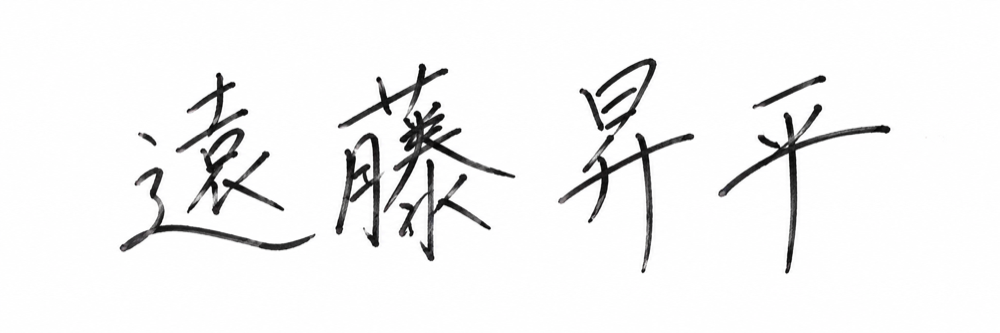
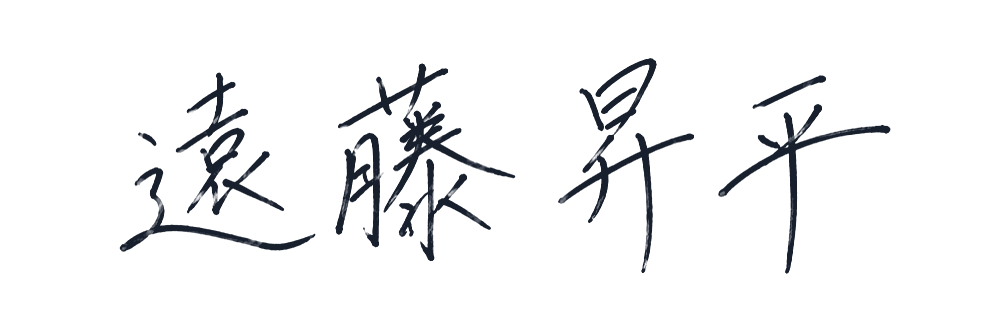
直筆サインを透明PNGにして、カーソルを合わせたときの白い点滅をなくす
Claude-Session: https://claude.ai/code/session_01YM2izPZYCTGNiZN6mE8etP

diff --git a/about/index.html b/about/index.html
@@ -15,7 +15,7 @@
 <link href="https://fonts.googleapis.com/css2?family=Cormorant+Garamond:wght@300;400;500&family=Montserrat:wght@500;600&family=Noto+Sans+JP:wght@400;500;700&family=Noto+Serif+JP:wght@500;600&display=swap" rel="stylesheet">
 <link rel="icon" href="../images/favicon.png" type="image/png">
 <link rel="apple-touch-icon" href="../images/apple-touch-icon.png">
-<link rel="stylesheet" href="../assets/style.css?v=fdc9fe1f">
+<link rel="stylesheet" href="../assets/style.css?v=f1bfc640">
 <script>
   // 表示前に「フェード待ち」の状態にする（本文の最後で付けると、文字が一度見えてから消えてフェードする）。
   // main.js が読み込めなかったときに文字が隠れたままにならないよう、3秒で解除する。
@@ -241,7 +241,7 @@
           <p>今後とも、より一層のご支援とご愛顧を賜りますよう、よろしくお願い申し上げます。</p>
         </div>
         <p class="co-message-company">LFグループ株式会社</p>
-        <p class="co-message-name"><span>代表取締役</span><img class="co-message-sign" loading="lazy" src="../images/ceo-sign.png?v=69592544" alt="遠藤 昇平" onerror="this.replaceWith(document.createTextNode('遠藤 昇平'))"></p>
+        <p class="co-message-name"><span>代表取締役</span><img class="co-message-sign" loading="lazy" src="../images/ceo-sign.png?v=c640e25b" alt="遠藤 昇平" onerror="this.replaceWith(document.createTextNode('遠藤 昇平'))"></p>
       </div>
     </div>
   </section>
@@ -295,7 +295,7 @@
   <a class="t" href="tel:0528462135"><svg><use href="#i-tel"/></svg>電話する</a>
 </div>
 
-<script src="../assets/main.js?v=fdc9fe1f"></script>
+<script src="../assets/main.js?v=f1bfc640"></script>
 <script src="../assets/recruit-fv.js?v=2086842c"></script>
 </body>
 </html>

diff --git a/top-a2-serif/index.html b/top-a2-serif/index.html
@@ -15,7 +15,7 @@
 <link href="https://fonts.googleapis.com/css2?family=Cormorant+Garamond:wght@300;400;500&family=Montserrat:wght@500;600&family=Noto+Sans+JP:wght@400;500;700&family=Noto+Serif+JP:wght@500;600&display=swap" rel="stylesheet">
 <link rel="icon" href="../images/favicon.png" type="image/png">
 <link rel="apple-touch-icon" href="../images/apple-touch-icon.png">
-<link rel="stylesheet" href="../assets/style.css?v=fdc9fe1f">
+<link rel="stylesheet" href="../assets/style.css?v=f1bfc640">
 <script>
   // 表示前に「フェード待ち」の状態にする（本文の最後で付けると、文字が一度見えてから消えてフェードする）。
   // main.js が読み込めなかったときに文字が隠れたままにならないよう、3秒で解除する。
@@ -282,7 +282,7 @@
   <a class="t" href="tel:0528462135"><svg><use href="#i-tel"/></svg>電話する</a>
 </div>
 
-<script src="../assets/main.js?v=fdc9fe1f"></script>
+<script src="../assets/main.js?v=f1bfc640"></script>
 <script src="../assets/lenis.min.js?v=89c0d7eb"></script>
 <script src="../assets/stylish.js?v=89c0d7eb"></script>
 <script src="../assets/recruit-fv.js?v=2086842c"></script>

diff --git a/top-flashy/index.html b/top-flashy/index.html
@@ -15,7 +15,7 @@
 <link href="https://fonts.googleapis.com/css2?family=Cormorant+Garamond:wght@300;400;500&family=Montserrat:wght@500;600&family=Noto+Sans+JP:wght@400;500;700&family=Noto+Serif+JP:wght@500;600&display=swap" rel="stylesheet">
 <link rel="icon" href="../images/favicon.png" type="image/png">
 <link rel="apple-touch-icon" href="../images/apple-touch-icon.png">
-<link rel="stylesheet" href="../assets/style.css?v=fdc9fe1f">
+<link rel="stylesheet" href="../assets/style.css?v=f1bfc640">
 <script>
   // 表示前に「フェード待ち」の状態にする（本文の最後で付けると、文字が一度見えてから消えてフェードする）。
   // main.js が読み込めなかったときに文字が隠れたままにならないよう、3秒で解除する。
@@ -283,7 +283,7 @@
   <a class="t" href="tel:0528462135"><svg><use href="#i-tel"/></svg>電話する</a>
 </div>
 
-<script src="../assets/main.js?v=fdc9fe1f"></script>
+<script src="../assets/main.js?v=f1bfc640"></script>
 <script src="../assets/lenis.min.js?v=89c0d7eb"></script>
 <script src="../assets/stylish.js?v=89c0d7eb"></script>
 <script src="../assets/flashy.js?v=723e2a01"></script>

diff --git a/index.html b/index.html
@@ -15,7 +15,7 @@
 <link href="https://fonts.googleapis.com/css2?family=Cormorant+Garamond:wght@300;400;500&family=Montserrat:wght@500;600&family=Noto+Sans+JP:wght@400;500;700&family=Noto+Serif+JP:wght@500;600&display=swap" rel="stylesheet">
 <link rel="icon" href="./images/favicon.png" type="image/png">
 <link rel="apple-touch-icon" href="./images/apple-touch-icon.png">
-<link rel="stylesheet" href="./assets/style.css?v=fdc9fe1f">
+<link rel="stylesheet" href="./assets/style.css?v=f1bfc640">
 <script>
   // 表示前に「フェード待ち」の状態にする（本文の最後で付けると、文字が一度見えてから消えてフェードする）。
   // main.js が読み込めなかったときに文字が隠れたままにならないよう、3秒で解除する。
@@ -282,7 +282,7 @@
   <a class="t" href="tel:0528462135"><svg><use href="#i-tel"/></svg>電話する</a>
 </div>
 
-<script src="./assets/main.js?v=fdc9fe1f"></script>
+<script src="./assets/main.js?v=f1bfc640"></script>
 <script src="./assets/lenis.min.js?v=89c0d7eb"></script>
 <script src="./assets/stylish.js?v=89c0d7eb"></script>
 <script src="./assets/recruit-fv.js?v=2086842c"></script>

diff --git a/top-a2-full/index.html b/top-a2-full/index.html
@@ -15,7 +15,7 @@
 <link href="https://fonts.googleapis.com/css2?family=Montserrat:wght@500;600&family=Noto+Sans+JP:wght@400;500;700&family=Noto+Serif+JP:wght@500;600&display=swap" rel="stylesheet">
 <link rel="icon" href="../images/favicon.png" type="image/png">
 <link rel="apple-touch-icon" href="../images/apple-touch-icon.png">
-<link rel="stylesheet" href="../assets/style.css?v=fdc9fe1f">
+<link rel="stylesheet" href="../assets/style.css?v=f1bfc640">
 <script>
   // 表示前に「フェード待ち」の状態にする（本文の最後で付けると、文字が一度見えてから消えてフェードする）。
   // main.js が読み込めなかったときに文字が隠れたままにならないよう、3秒で解除する。
@@ -282,7 +282,7 @@
   <a class="t" href="tel:0528462135"><svg><use href="#i-tel"/></svg>電話する</a>
 </div>
 
-<script src="../assets/main.js?v=fdc9fe1f"></script>
+<script src="../assets/main.js?v=f1bfc640"></script>
 <script src="../assets/lenis.min.js?v=89c0d7eb"></script>
 <script src="../assets/stylish.js?v=89c0d7eb"></script>
 <script src="../assets/recruit-fv.js?v=2086842c"></script>

diff --git a/top-a2-wipe/index.html b/top-a2-wipe/index.html
@@ -15,7 +15,7 @@
 <link href="https://fonts.googleapis.com/css2?family=Montserrat:wght@500;600&family=Noto+Sans+JP:wght@400;500;700&family=Noto+Serif+JP:wght@500;600&display=swap" rel="stylesheet">
 <link rel="icon" href="../images/favicon.png" type="image/png">
 <link rel="apple-touch-icon" href="../images/apple-touch-icon.png">
-<link rel="stylesheet" href="../assets/style.css?v=fdc9fe1f">
+<link rel="stylesheet" href="../assets/style.css?v=f1bfc640">
 <script>
   // 表示前に「フェード待ち」の状態にする（本文の最後で付けると、文字が一度見えてから消えてフェードする）。
   // main.js が読み込めなかったときに文字が隠れたままにならないよう、3秒で解除する。
@@ -282,7 +282,7 @@
   <a class="t" href="tel:0528462135"><svg><use href="#i-tel"/></svg>電話する</a>
 </div>
 
-<script src="../assets/main.js?v=fdc9fe1f"></script>
+<script src="../assets/main.js?v=f1bfc640"></script>
 <script src="../assets/lenis.min.js?v=89c0d7eb"></script>
 <script src="../assets/stylish.js?v=89c0d7eb"></script>
 <script src="../assets/recruit-fv.js?v=2086842c"></script>

diff --git a/top-a2/index.html b/top-a2/index.html
@@ -15,7 +15,7 @@
 <link href="https://fonts.googleapis.com/css2?family=Montserrat:wght@500;600&family=Noto+Sans+JP:wght@400;500;700&family=Noto+Serif+JP:wght@500;600&display=swap" rel="stylesheet">
 <link rel="icon" href="../images/favicon.png" type="image/png">
 <link rel="apple-touch-icon" href="../images/apple-touch-icon.png">
-<link rel="stylesheet" href="../assets/style.css?v=fdc9fe1f">
+<link rel="stylesheet" href="../assets/style.css?v=f1bfc640">
 <script>
   // 表示前に「フェード待ち」の状態にする（本文の最後で付けると、文字が一度見えてから消えてフェードする）。
   // main.js が読み込めなかったときに文字が隠れたままにならないよう、3秒で解除する。
@@ -260,7 +260,7 @@
   <a class="t" href="tel:0528462135"><svg><use href="#i-tel"/></svg>電話する</a>
 </div>
 
-<script src="../assets/main.js?v=fdc9fe1f"></script>
+<script src="../assets/main.js?v=f1bfc640"></script>
 <script src="../assets/lenis.min.js?v=89c0d7eb"></script>
 <script src="../assets/stylish.js?v=89c0d7eb"></script>
 <script src="../assets/recruit-fv.js?v=2086842c"></script>

diff --git a/company/index.html b/company/index.html
@@ -15,7 +15,7 @@
 <link href="https://fonts.googleapis.com/css2?family=Cormorant+Garamond:wght@300;400;500&family=Montserrat:wght@500;600&family=Noto+Sans+JP:wght@400;500;700&family=Noto+Serif+JP:wght@500;600&display=swap" rel="stylesheet">
 <link rel="icon" href="../images/favicon.png" type="image/png">
 <link rel="apple-touch-icon" href="../images/apple-touch-icon.png">
-<link rel="stylesheet" href="../assets/style.css?v=fdc9fe1f">
+<link rel="stylesheet" href="../assets/style.css?v=f1bfc640">
 <script>
   // 表示前に「フェード待ち」の状態にする（本文の最後で付けると、文字が一度見えてから消えてフェードする）。
   // main.js が読み込めなかったときに文字が隠れたままにならないよう、3秒で解除する。
@@ -214,7 +214,7 @@
   <a class="t" href="tel:0528462135"><svg><use href="#i-tel"/></svg>電話する</a>
 </div>
 
-<script src="../assets/main.js?v=fdc9fe1f"></script>
+<script src="../assets/main.js?v=f1bfc640"></script>
 <script src="../assets/recruit-fv.js?v=2086842c"></script>
 </body>
 </html>

diff --git a/corporate/index.html b/corporate/index.html
@@ -15,7 +15,7 @@
 <link href="https://fonts.googleapis.com/css2?family=Cormorant+Garamond:wght@300;400;500&family=Montserrat:wght@500;600&family=Noto+Sans+JP:wght@400;500;700&family=Noto+Serif+JP:wght@500;600&display=swap" rel="stylesheet">
 <link rel="icon" href="../images/favicon.png" type="image/png">
 <link rel="apple-touch-icon" href="../images/apple-touch-icon.png">
-<link rel="stylesheet" href="../assets/style.css?v=fdc9fe1f">
+<link rel="stylesheet" href="../assets/style.css?v=f1bfc640">
 <script>
   // 表示前に「フェード待ち」の状態にする（本文の最後で付けると、文字が一度見えてから消えてフェードする）。
   // main.js が読み込めなかったときに文字が隠れたままにならないよう、3秒で解除する。
@@ -305,7 +305,7 @@
   <a class="t" href="tel:0528462135"><svg><use href="#i-tel"/></svg>電話する</a>
 </div>
 
-<script src="../assets/main.js?v=fdc9fe1f"></script>
+<script src="../assets/main.js?v=f1bfc640"></script>
 <script src="../assets/recruit-fv.js?v=2086842c"></script>
 </body>
 </html>

diff --git a/partner/index.html b/partner/index.html
@@ -15,7 +15,7 @@
 <link href="https://fonts.googleapis.com/css2?family=Cormorant+Garamond:wght@300;400;500&family=Montserrat:wght@500;600&family=Noto+Sans+JP:wght@400;500;700&family=Noto+Serif+JP:wght@500;600&display=swap" rel="stylesheet">
 <link rel="icon" href="../images/favicon.png" type="image/png">
 <link rel="apple-touch-icon" href="../images/apple-touch-icon.png">
-<link rel="stylesheet" href="../assets/style.css?v=fdc9fe1f">
+<link rel="stylesheet" href="../assets/style.css?v=f1bfc640">
 <script>
   // 表示前に「フェード待ち」の状態にする（本文の最後で付けると、文字が一度見えてから消えてフェードする）。
   // main.js が読み込めなかったときに文字が隠れたままにならないよう、3秒で解除する。
@@ -283,7 +283,7 @@
   <a class="t" href="tel:0528462135"><svg><use href="#i-tel"/></svg>電話する</a>
 </div>
 
-<script src="../assets/main.js?v=fdc9fe1f"></script>
+<script src="../assets/main.js?v=f1bfc640"></script>
 <script src="../assets/recruit-fv.js?v=2086842c"></script>
 </body>
 </html>

diff --git a/personal/index.html b/personal/index.html
@@ -15,7 +15,7 @@
 <link href="https://fonts.googleapis.com/css2?family=Cormorant+Garamond:wght@300;400;500&family=Montserrat:wght@500;600&family=Noto+Sans+JP:wght@400;500;700&family=Noto+Serif+JP:wght@500;600&display=swap" rel="stylesheet">
 <link rel="icon" href="../images/favicon.png" type="image/png">
 <link rel="apple-touch-icon" href="../images/apple-touch-icon.png">
-<link rel="stylesheet" href="../assets/style.css?v=fdc9fe1f">
+<link rel="stylesheet" href="../assets/style.css?v=f1bfc640">
 <script>
   // 表示前に「フェード待ち」の状態にする（本文の最後で付けると、文字が一度見えてから消えてフェードする）。
   // main.js が読み込めなかったときに文字が隠れたままにならないよう、3秒で解除する。
@@ -262,7 +262,7 @@
   <a class="t" href="tel:0528462135"><svg><use href="#i-tel"/></svg>電話する</a>
 </div>
 
-<script src="../assets/main.js?v=fdc9fe1f"></script>
+<script src="../assets/main.js?v=f1bfc640"></script>
 <script src="../assets/recruit-fv.js?v=2086842c"></script>
 </body>
 </html>

diff --git a/recruitment-a2/index.html b/recruitment-a2/index.html
@@ -15,7 +15,7 @@
 <link href="https://fonts.googleapis.com/css2?family=Cormorant+Garamond:wght@300;400;500&family=Montserrat:wght@500;600&family=Noto+Sans+JP:wght@400;500;700&family=Noto+Serif+JP:wght@500;600&display=swap" rel="stylesheet">
 <link rel="icon" href="../images/favicon.png" type="image/png">
 <link rel="apple-touch-icon" href="../images/apple-touch-icon.png">
-<link rel="stylesheet" href="../assets/style.css?v=fdc9fe1f">
+<link rel="stylesheet" href="../assets/style.css?v=f1bfc640">
 <script>
   // 表示前に「フェード待ち」の状態にする（本文の最後で付けると、文字が一度見えてから消えてフェードする）。
   // main.js が読み込めなかったときに文字が隠れたままにならないよう、3秒で解除する。
@@ -301,7 +301,7 @@
   <a class="t" href="tel:0528462135"><svg><use href="#i-tel"/></svg>電話する</a>
 </div>
 
-<script src="../assets/main.js?v=fdc9fe1f"></script>
+<script src="../assets/main.js?v=f1bfc640"></script>
 <script src="../assets/recruit-fv.js?v=2086842c"></script>
 </body>
 </html>
